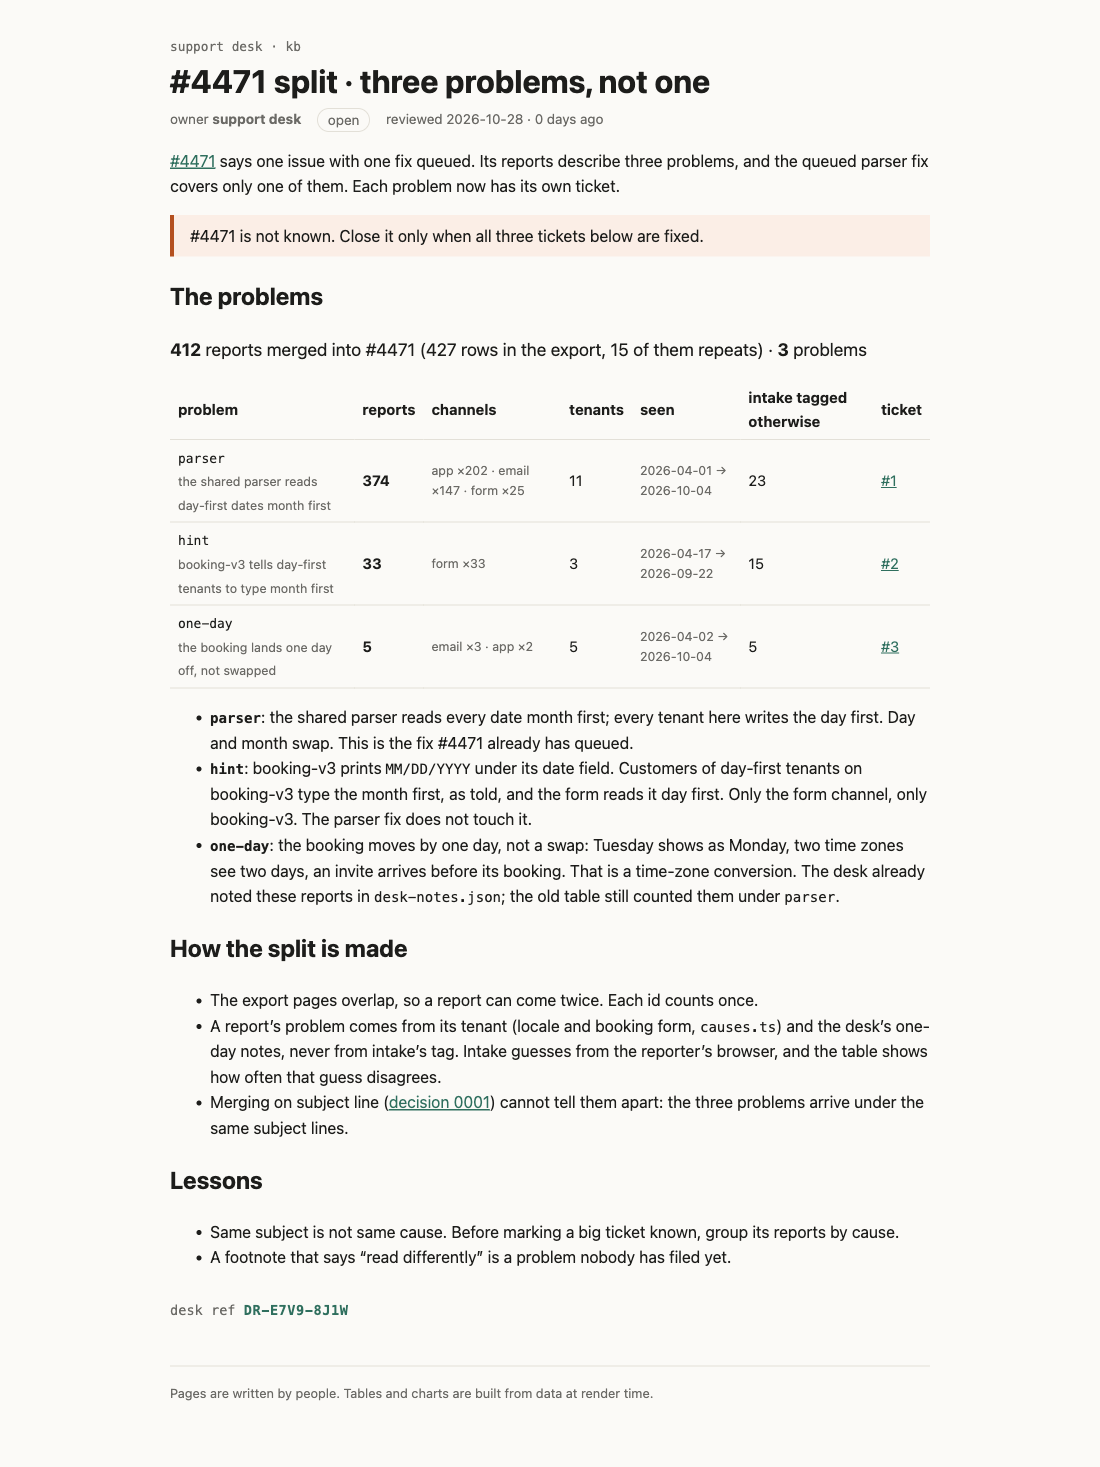
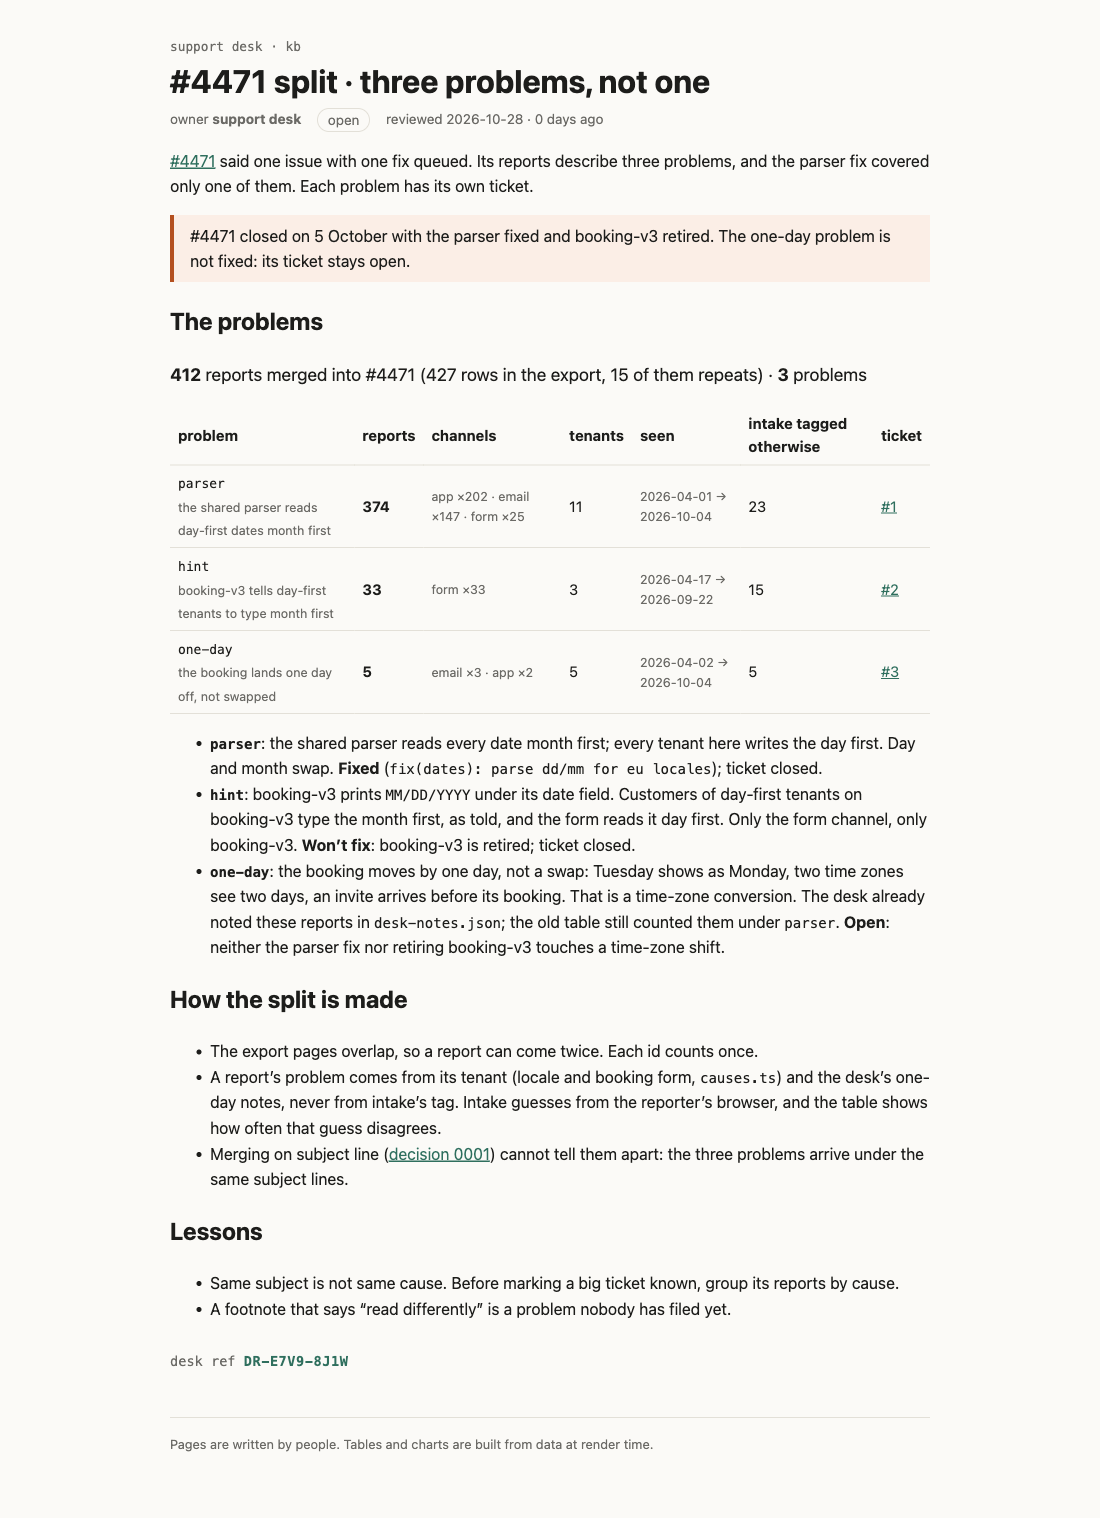
kb page: record #4471 outcome (parser fixed, hint won't fix, one-day open)

diff --git a/rendered/kb-incidents-4471-split.html b/rendered/kb-incidents-4471-split.html
@@ -9,11 +9,11 @@
 		<link href="../../../_app/immutable/chunks/B2Ul7l_u.js" rel="modulepreload">
 		<link href="../../../_app/immutable/chunks/BCPXOG7W.js" rel="modulepreload">
 		<link href="../../../_app/immutable/chunks/Dh1V97Jm.js" rel="modulepreload">
-		<link href="../../../_app/immutable/entry/app.ByTCBVBB.js" rel="modulepreload">
+		<link href="../../../_app/immutable/entry/app.DZTLy8cz.js" rel="modulepreload">
 		<link href="../../../_app/immutable/nodes/0.C9KfiiPz.js" rel="modulepreload">
 		<link href="../../../_app/immutable/chunks/DK3Fl9T5.js" rel="modulepreload">
-		<link href="../../../_app/immutable/nodes/5.BD_dHb8Y.js" rel="modulepreload">
-		<link href="../../../_app/immutable/chunks/DT01CCDb.js" rel="modulepreload">
+		<link href="../../../_app/immutable/nodes/5.CfzWZorr.js" rel="modulepreload">
+		<link href="../../../_app/immutable/chunks/BodqO7TK.js" rel="modulepreload">
 		<link href="../../../_app/immutable/chunks/BTPwLomz.js" rel="modulepreload">
 		<link href="../../../_app/immutable/chunks/CVBzP17p.js" rel="modulepreload">
 		<link href="../../../_app/immutable/chunks/BIy4WKJS.js" rel="modulepreload">
@@ -23,30 +23,32 @@
 		<link href="../../../_app/immutable/assets/_page.D3E3_zoj.css" rel="stylesheet">
   </head>
   <body>
-    <div style="display: contents"><!--[--><!--[--><!--[0--><!--[--><!--[--><!--[-1--><!--[--><div class="kb svelte-e2jw2j"><header><a class="crumb svelte-e2jw2j" href="/kb">support desk · kb</a> <h1 class="svelte-e2jw2j">#4471 split · three problems, not one</h1> <p class="meta svelte-e2jw2j"><span>owner <b>support desk</b></span> <span class="status open svelte-e2jw2j">open</span> <span class="svelte-e2jw2j">reviewed 2026-10-28 · 0 days ago</span></p></header> <!--[-1--><!--]--> <main><p><a href="/kb/incidents/4471">#4471</a> says one issue with one fix queued. Its reports describe three
-problems, and the queued parser fix covers only one of them. Each problem now has its own ticket.</p> <aside class="warn svelte-17bri61"><!---->#4471 is not known. Close it only when all three tickets below are fixed.<!----></aside><!----> <h2>The problems</h2> <p class="sum svelte-1op6c6"><strong>412</strong> reports merged into #4471
+    <div style="display: contents"><!--[--><!--[--><!--[0--><!--[--><!--[--><!--[-1--><!--[--><div class="kb svelte-e2jw2j"><header><a class="crumb svelte-e2jw2j" href="/kb">support desk · kb</a> <h1 class="svelte-e2jw2j">#4471 split · three problems, not one</h1> <p class="meta svelte-e2jw2j"><span>owner <b>support desk</b></span> <span class="status open svelte-e2jw2j">open</span> <span class="svelte-e2jw2j">reviewed 2026-10-28 · 0 days ago</span></p></header> <!--[-1--><!--]--> <main><p><a href="/kb/incidents/4471">#4471</a> said one issue with one fix queued. Its reports describe three
+problems, and the parser fix covered only one of them. Each problem has its own ticket.</p> <aside class="warn svelte-17bri61"><!---->#4471 closed on 5 October with the parser fixed and booking-v3 retired. The one-day problem is
+not fixed: its ticket stays open.<!----></aside><!----> <h2>The problems</h2> <p class="sum svelte-1op6c6"><strong>412</strong> reports merged into #4471
   (427 rows in the export, 15 of them repeats) · <strong>3</strong> problems</p> <table><thead><tr><th>problem</th><th>reports</th><th>channels</th><th>tenants</th><th>seen</th><th>intake tagged otherwise</th><th>ticket</th></tr></thead><tbody><!--[--><tr><td><code>parser</code><br/><span class="what svelte-1op6c6">the shared parser reads day-first dates month first</span></td><td><strong>374</strong></td><td class="muted svelte-1op6c6">app ×202 · email ×147 · form ×25</td><td>11</td><td class="muted svelte-1op6c6">2026-04-01 → 2026-10-04</td><td>23</td><td><!--[0--><a href="https://github.com/AdditionAddict/support-kb-4471/issues/1">#1</a><!--]--></td></tr><tr><td><code>hint</code><br/><span class="what svelte-1op6c6">booking-v3 tells day-first tenants to type month first</span></td><td><strong>33</strong></td><td class="muted svelte-1op6c6">form ×33</td><td>3</td><td class="muted svelte-1op6c6">2026-04-17 → 2026-09-22</td><td>15</td><td><!--[0--><a href="https://github.com/AdditionAddict/support-kb-4471/issues/2">#2</a><!--]--></td></tr><tr><td><code>one-day</code><br/><span class="what svelte-1op6c6">the booking lands one day off, not swapped</span></td><td><strong>5</strong></td><td class="muted svelte-1op6c6">email ×3 · app ×2</td><td>5</td><td class="muted svelte-1op6c6">2026-04-02 → 2026-10-04</td><td>5</td><td><!--[0--><a href="https://github.com/AdditionAddict/support-kb-4471/issues/3">#3</a><!--]--></td></tr><!--]--></tbody></table><!----> <ul><li><strong><code>parser</code></strong>: the shared parser reads every date month first; every tenant here writes the
-day first. Day and month swap. This is the fix #4471 already has queued.</li> <li><strong><code>hint</code></strong>: booking-v3 prints <code>MM/DD/YYYY</code> under its date field. Customers of day-first tenants on
+day first. Day and month swap. <strong>Fixed</strong> (<code>fix(dates): parse dd/mm for eu locales</code>); ticket closed.</li> <li><strong><code>hint</code></strong>: booking-v3 prints <code>MM/DD/YYYY</code> under its date field. Customers of day-first tenants on
 booking-v3 type the month first, as told, and the form reads it day first. Only the form
-channel, only booking-v3. The parser fix does not touch it.</li> <li><strong><code>one-day</code></strong>: the booking moves by one day, not a swap: Tuesday shows as Monday, two time zones
+channel, only booking-v3. <strong>Won’t fix</strong>: booking-v3 is retired; ticket closed.</li> <li><strong><code>one-day</code></strong>: the booking moves by one day, not a swap: Tuesday shows as Monday, two time zones
 see two days, an invite arrives before its booking. That is a time-zone conversion. The desk
-already noted these reports in <code>desk-notes.json</code>; the old table still counted them under <code>parser</code>.</li></ul> <h2>How the split is made</h2> <ul><li>The export pages overlap, so a report can come twice. Each id counts once.</li> <li>A report’s problem comes from its tenant (locale and booking form, <code>causes.ts</code>) and the desk’s
+already noted these reports in <code>desk-notes.json</code>; the old table still counted them under <code>parser</code>. <strong>Open</strong>: neither the parser fix nor
+retiring booking-v3 touches a time-zone shift.</li></ul> <h2>How the split is made</h2> <ul><li>The export pages overlap, so a report can come twice. Each id counts once.</li> <li>A report’s problem comes from its tenant (locale and booking form, <code>causes.ts</code>) and the desk’s
 one-day notes, never from intake’s tag. Intake guesses from the reporter’s browser, and the
 table shows how often that guess disagrees.</li> <li>Merging on subject line (<a href="/kb/decisions/0001-dedupe-by-subject">decision 0001</a>) cannot tell them
 apart: the three problems arrive under the same subject lines.</li></ul> <h2>Lessons</h2> <ul><li>Same subject is not same cause. Before marking a big ticket known, group its reports by cause.</li> <li>A footnote that says “read differently” is a problem nobody has filed yet.</li></ul> <!--[0--><p class="stamp svelte-1280m42">desk ref <b class="svelte-1280m42">DR-E7V9-8J1W</b></p><!--]--><!----><!----></main> <footer class="svelte-e2jw2j">Pages are written by people. Tables and charts are built from data at render time.</footer></div><!--]--><!--]--><!--]--><!----><!--]--><!--]--><!--]--><!----> <!--[-1--><!--]--><!--]-->
 			
 			<script>
 				{
-					__sveltekit_363wd9 = {
+					__sveltekit_1kovpbt = {
 						base: new URL("../../..", location).pathname.slice(0, -1),
-						version: "1793167019297"
+						version: "1793167618816"
 					};
 
 					const element = document.currentScript.parentElement;
 
 					import("../../../_app/immutable/entry/start.CH5w6lId.js").then(async (kit) => {
-						kit.init(__sveltekit_363wd9);
-						const app = await import("../../../_app/immutable/entry/app.ByTCBVBB.js");
+						kit.init(__sveltekit_1kovpbt);
+						const app = await import("../../../_app/immutable/entry/app.DZTLy8cz.js");
 						kit.start(app, element, {
 							node_ids: [0, 5],
 							data: [null,null],
